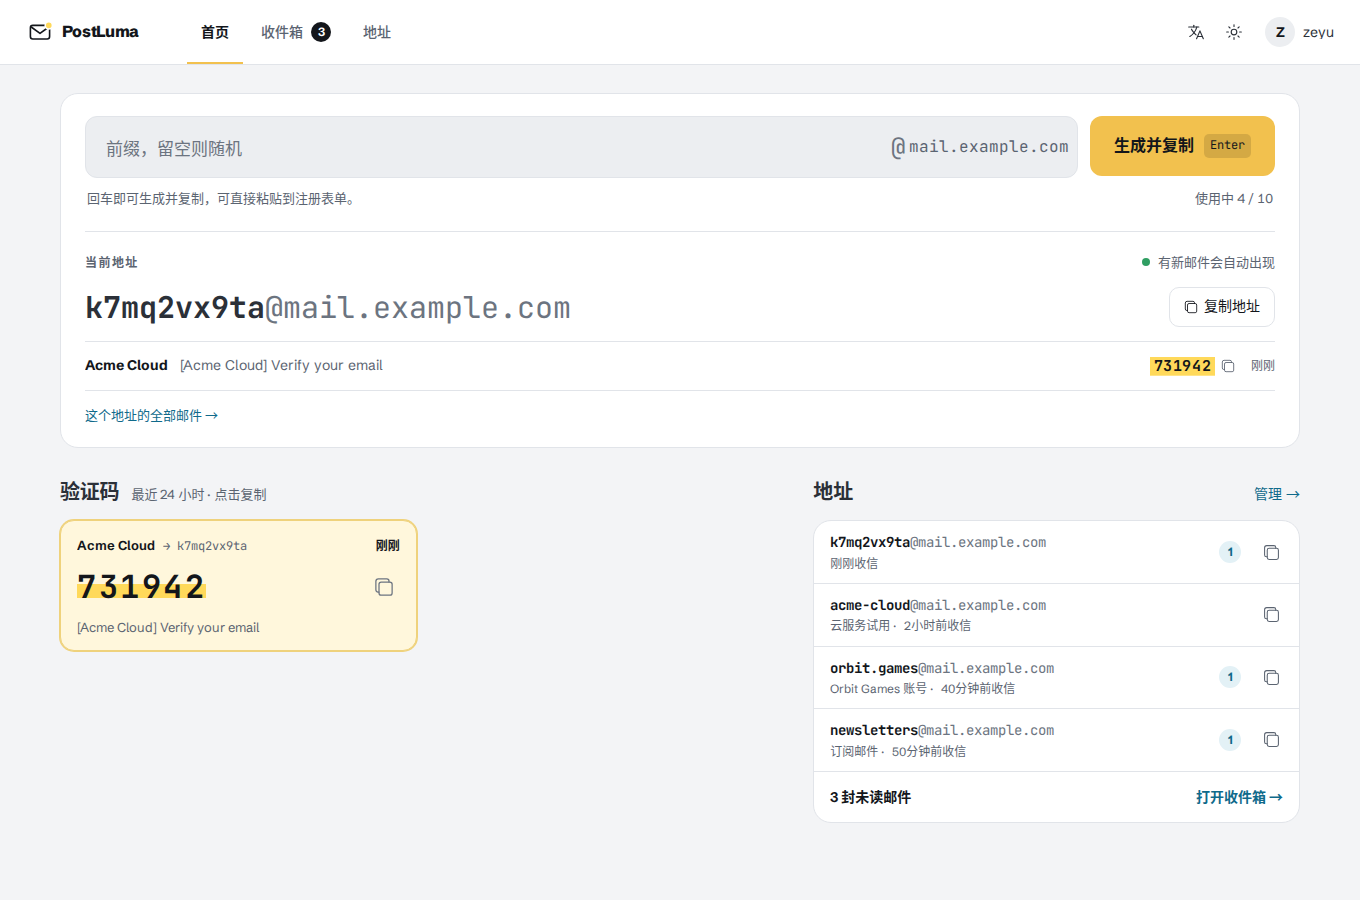
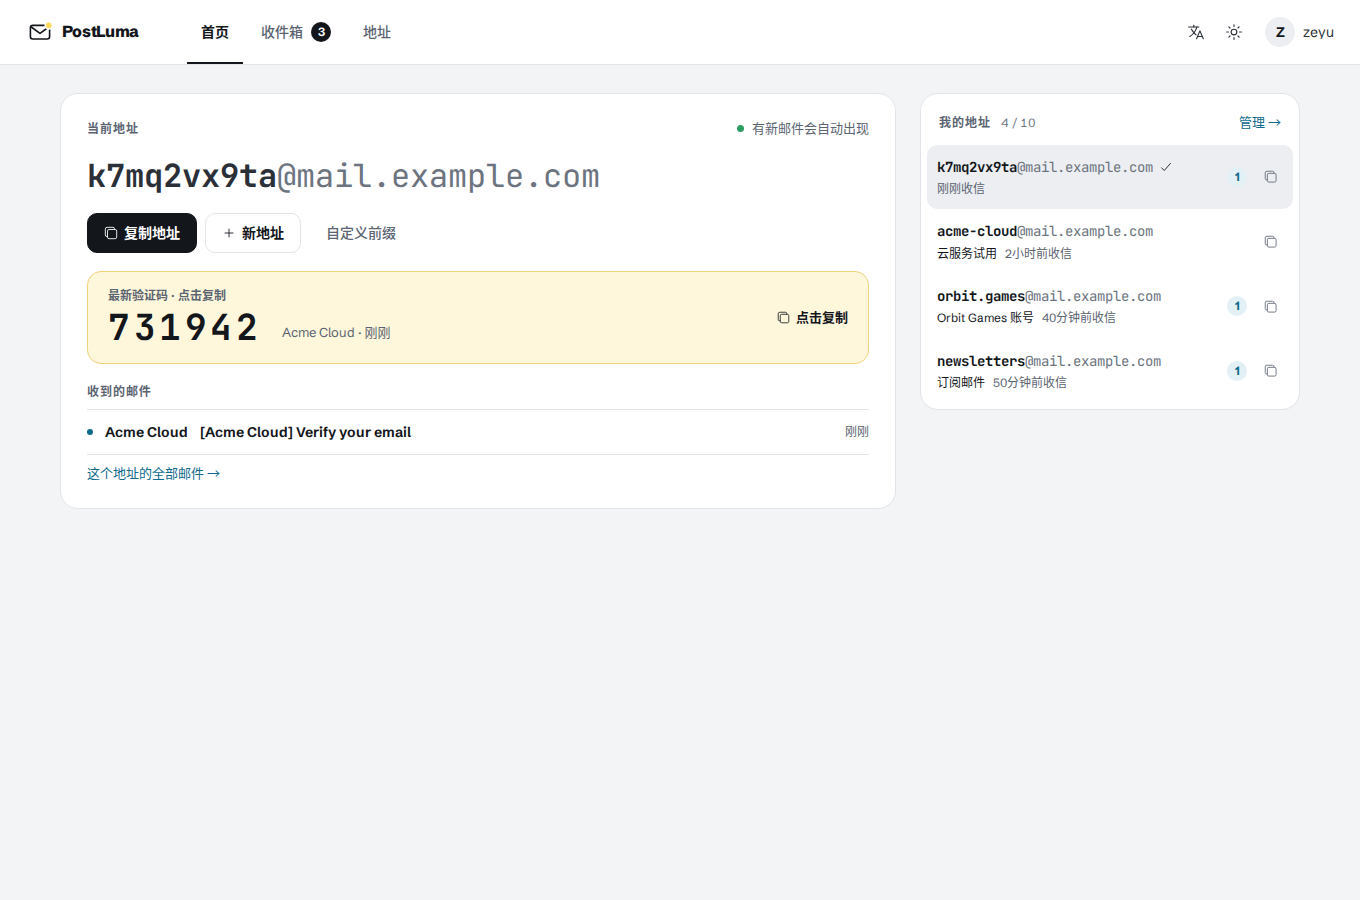
docs: README and conventions for the reworked home page

diff --git a/CLAUDE.md b/CLAUDE.md
@@ -82,7 +82,7 @@ Tooling gotchas:
 3. Domains live in their own table (admin-managed).
 Tests override vars with `api(path, { env: { VAR: '…' } })` (runs the Hono app in-process) or by passing `{ ...env, VAR: '…' }` to `handleEmail` / `getConfig`.
 
-**Frontend**: Naive UI for components, vue-i18n for text. Session state is `src/stores/session.ts` (no Pinia); `src/stores/inbox.ts` holds the unread badge and polls `/api/messages/summary` every 30 s only while the tab is visible (D1 read budget) — views watch `inbox.latestReceivedAt` and pull just the new rows with `since`; the router guard in `src/router/index.ts` loads it once and enforces `meta.public` / `meta.admin`. `src/api/client.ts` throws `ApiRequestError(status, code)` and triggers a global redirect to login on any 401 outside `/api/auth/*`. Post-login redirects go through `safeRedirect()`. Visual tokens live in `src/styles/main.css` (`--pl-*`) and `src/theme.ts` (Naive overrides) — direction B (“signal desk”): light by default, ink-ground dark theme, Schibsted Grotesk + JetBrains Mono self-hosted via @fontsource (CSP `font-src 'self'`). `--pl-signal` (amber) is reserved for the main action, the current-location underline and verification codes. Desktop uses a top navigation, phones a bottom tab bar (`src/layouts/AppLayout.vue`); views that fill the viewport subtract `--pl-chrome`. Views react to new mail by watching `inbox.arrivals` (not `latestReceivedAt`, which starts null for users without mail); `boostPolling()` speeds polls to 10 s for a while after creating an address. Initial locales are `zh-CN` and `en`; adding one (e.g. `ja`) should only need a new `src/locales/<lang>.ts` plus registering the matching Naive UI locale and date locale. No user-visible string is hard-coded in components. The API returns stable error codes (e.g. `mailbox_quota_exceeded`), and the frontend translates them.
+**Frontend**: Naive UI for components, vue-i18n for text. Session state is `src/stores/session.ts` (no Pinia); `src/stores/inbox.ts` holds the unread badge and polls `/api/messages/summary` every 30 s only while the tab is visible (D1 read budget) — views watch `inbox.latestReceivedAt` and pull just the new rows with `since`; the router guard in `src/router/index.ts` loads it once and enforces `meta.public` / `meta.admin`. `src/api/client.ts` throws `ApiRequestError(status, code)` and triggers a global redirect to login on any 401 outside `/api/auth/*`. Post-login redirects go through `safeRedirect()`. Visual tokens live in `src/styles/main.css` (`--pl-*`) and `src/theme.ts` (Naive overrides) — direction B (“signal desk”): light by default, ink-ground dark theme, Schibsted Grotesk + JetBrains Mono self-hosted via @fontsource (CSP `font-src 'self'`). Amber (`--pl-signal`, `--pl-mark`, `--pl-code-bg`) is reserved for verification codes not yet copied: copying a code (`useCopyCode`, or `CodeChip` with `message`) marks its message read and the highlight goes away. Buttons outside Naive use the shared `.pl-btn` / `.pl-btn.primary` (ink) / `.pl-btn.quiet` classes; navigation underlines are ink. The home page's “current address” (`src/stores/current.ts`, per user in localStorage) is whatever was last created (`useCreateMailbox`: create → copy → make current), copied or picked, falling back to the newest active address. Desktop uses a top navigation, phones a bottom tab bar (`src/layouts/AppLayout.vue`); views that fill the viewport subtract `--pl-chrome`. Views react to new mail by watching `inbox.arrivals` (not `latestReceivedAt`, which starts null for users without mail); `boostPolling()` speeds polls to 10 s for a while after creating an address. Initial locales are `zh-CN` and `en`; adding one (e.g. `ja`) should only need a new `src/locales/<lang>.ts` plus registering the matching Naive UI locale and date locale. No user-visible string is hard-coded in components. The API returns stable error codes (e.g. `mailbox_quota_exceeded`), and the frontend translates them.
 
 ## Testing
 

diff --git a/README.en.md b/README.en.md
@@ -13,7 +13,7 @@
 
 ---
 
-| Home: create an address, mail and codes appear live | Inbox: one line per message, details slide in |
+| Home: current address, latest code and all addresses | Inbox: one line per message, details slide in |
 |---|---|
 | ![Home](docs/screenshots/home.png) | ![Inbox](docs/screenshots/inbox.png) |
 | **Dark theme** | **Phone** |
@@ -23,16 +23,17 @@
 
 ## What it is
 
-PostLuma is a private temporary mailbox for you and people you trust, built for signing up to websites and receiving verification codes. Type a prefix on the home page (or leave it empty for a random one) and press Enter: the address is copied to your clipboard. Mail sent to it appears right below, the verification code is detected, and one click copies it — no page switching.
+PostLuma is a private temporary mailbox for you and people you trust, built for signing up to websites and receiving verification codes. Click “New address” on the home page: a random address is created, copied to your clipboard and becomes your current address. Mail sent to it appears right below it, the verification code is detected and highlighted in amber, and one click copies it — no page switching.
 
 What sets it apart from other Cloudflare mail projects is that **isolation between users** comes first: each user sees only their own mail, admins can't read anyone's mail, and an address that was ever handed out is never given to anyone else.
 
 ## Features
 
 **Receiving and codes**
-- Generate a random address or choose a prefix; Enter creates it and copies it
+- Generate a random address or choose a prefix; a new address is copied and becomes the current one
+- You decide the current address: the one you last created, copied or picked stays current across reloads; the list beside it shows each address's note, unread count and any code not copied yet
 - For 10 minutes after creating an address the app checks for mail every 10 s (otherwise every 30 s); new mail shows up without a reload
-- Verification codes are detected (Chinese, English and Japanese keywords; years, amounts, phone and order numbers excluded) and copied in one click from the list, home page or message
+- Verification codes are detected (Chinese, English and Japanese keywords; years, amounts, phone and order numbers excluded) and copied in one click; copying marks the message read, so amber only highlights codes not copied yet
 - Per-address opt-in `+alias`: mail to `name+shop@domain` also reaches `name@domain`, without using quota
 - Multiple receiving domains, managed by admins
 

diff --git a/README.md b/README.md
@@ -13,7 +13,7 @@
 
 ---
 
-| 首页：生成地址，邮件和验证码实时出现 | 收件箱：一行一封，详情从右侧滑出 |
+| 首页：当前地址、最新验证码和所有地址 | 收件箱：一行一封，详情从右侧滑出 |
 |---|---|
 | ![首页](docs/screenshots/home.png) | ![收件箱](docs/screenshots/inbox.png) |
 | **暗色主题** | **手机** |
@@ -21,16 +21,17 @@
 
 ## 这是什么
 
-PostLuma 是给自己和信任的人用的私人临时邮箱。主要用途是注册网站、接收验证码：在首页输入前缀（或留空随机生成）后按回车，地址自动复制到剪贴板；网站发来的邮件会直接出现在这个地址下面，验证码会被自动识别，点一下就能复制，整个过程不用切换页面。
+PostLuma 是给自己和信任的人用的私人临时邮箱。主要用途是注册网站、接收验证码：在首页点“新地址”，随机地址立即生成并复制到剪贴板，同时成为“当前地址”；网站发来的邮件会直接出现在它下面，验证码会被自动识别并用黄色突出，点一下即可复制，整个过程不用切换页面。
 
 它和其他基于 Cloudflare 的邮箱项目最大的不同，是把**多用户之间的隔离**当作首要目标：每个用户只能看到自己的邮件，管理员也看不到邮件内容；一个地址一旦分配出去，就永远不会再给别人。
 
 ## 功能
 
 **收信与验证码**
-- 一键生成随机地址，或输入自定义前缀；回车生成并自动复制
+- 一键生成随机地址，或输入自定义前缀；新地址自动复制并成为“当前地址”
+- 当前地址由你决定：新建、复制或在列表里点选的地址就是当前地址，刷新后仍会记住；右侧列表同时显示每个地址的备注、未读数和尚未复制的验证码
 - 新地址生成后的 10 分钟内每 10 秒检查一次新邮件，其余时间每 30 秒，邮件无需刷新即可出现
-- 自动识别验证码（中、英、日关键词；排除年份、金额、电话、订单号等误报），在列表、首页和详情中一键复制
+- 自动识别验证码（中、英、日关键词；排除年份、金额、电话、订单号等误报），一键复制；复制后邮件自动标为已读，黄色高亮只留给还没复制的验证码
 - 每个地址可单独开启 `+别名`：发到 `name+shop@域名` 的邮件也会进入 `name@域名`，不占用地址配额
 - 支持多个收信域名，由管理员在后台维护
 
